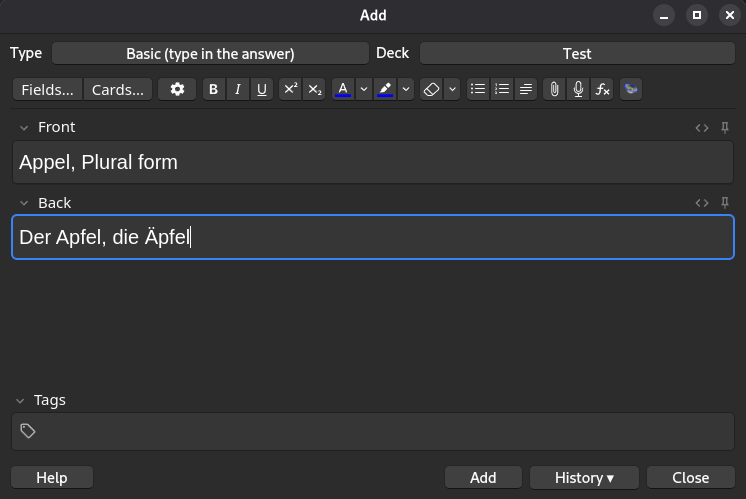
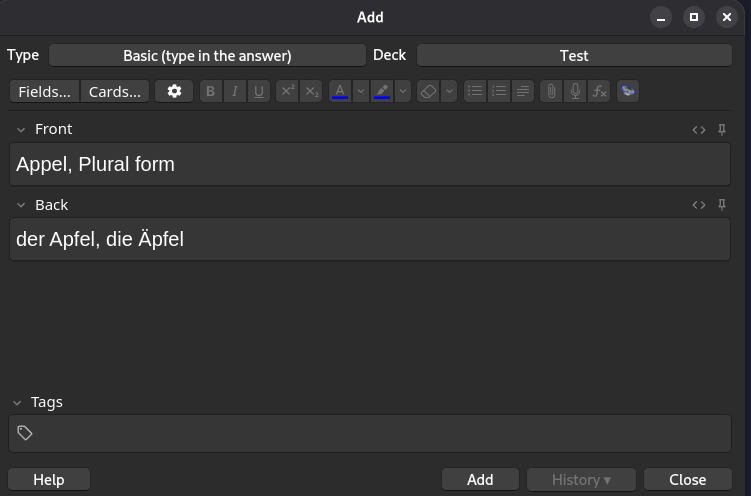
fix: changed the image of name insertion.

diff --git a/src/content/posts/how-I-learn-German.md b/src/content/posts/how-I-learn-German.md
@@ -9,8 +9,6 @@ image: "/efficiency.jpg"
 ---
 
 
-# How I Learn German
-
 Here's how I've structured my German learning, the routine. The problems I ran into, and the system I built to fix them.
 
 ## My daily routine
